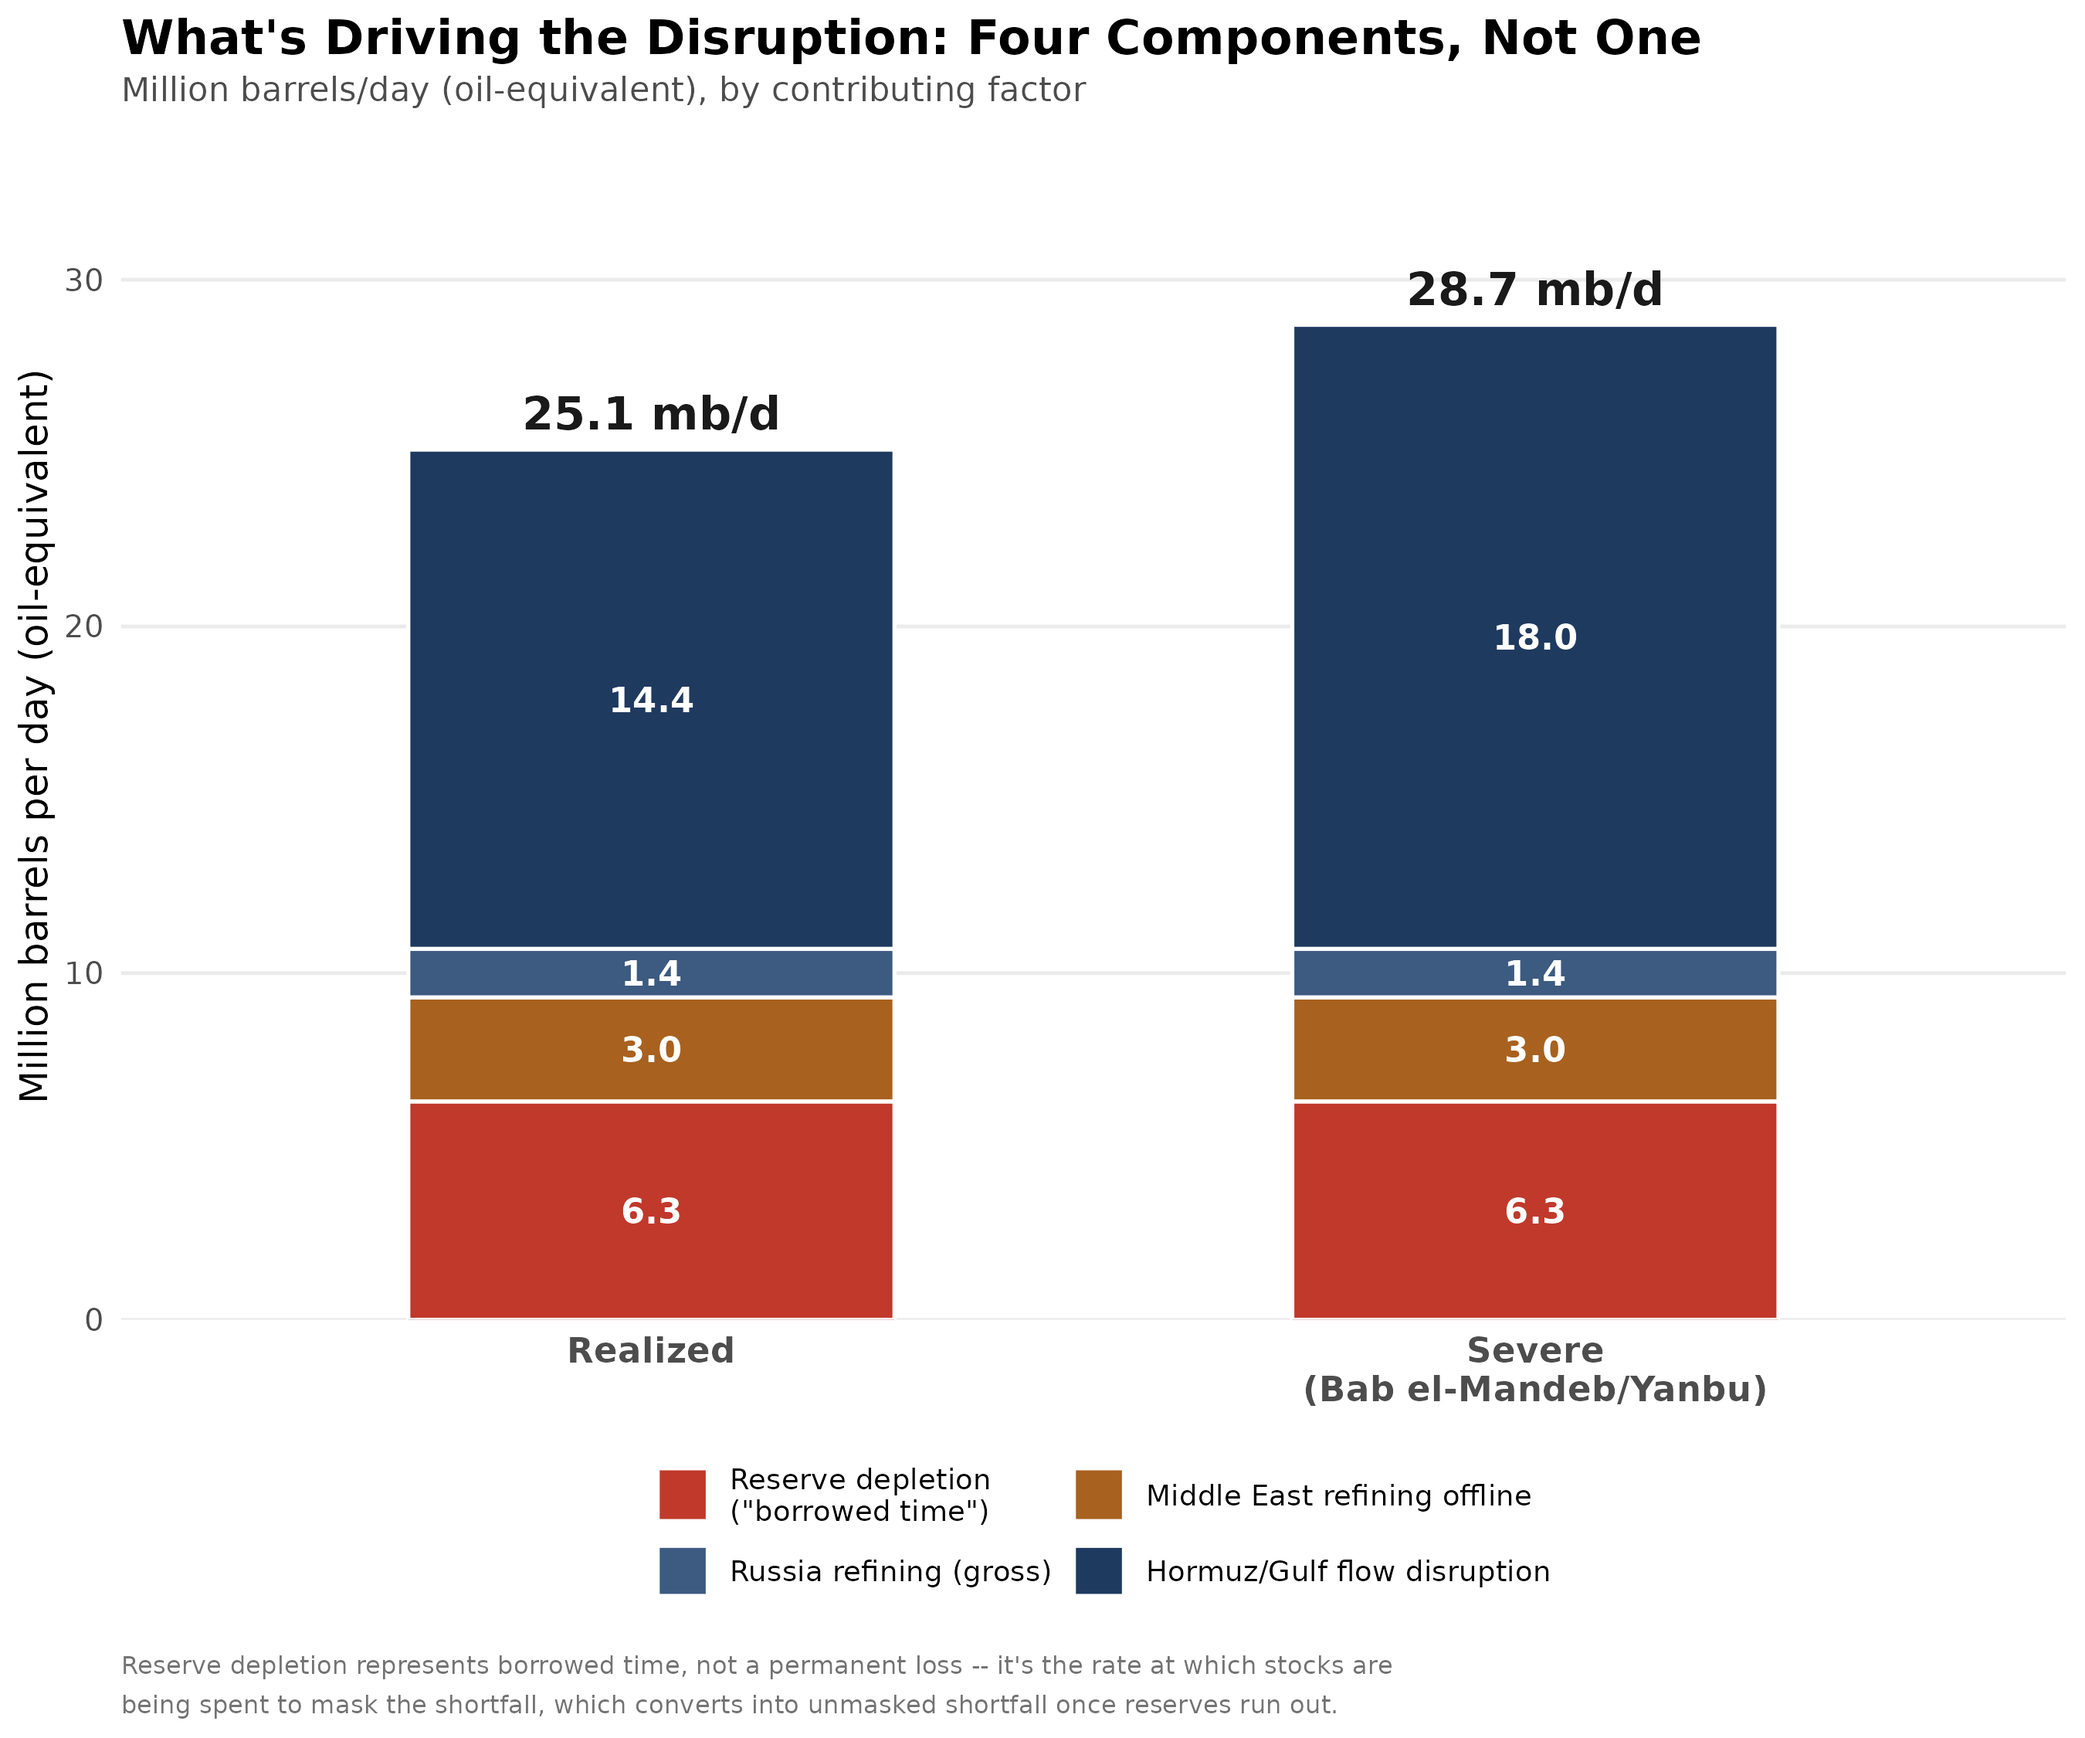
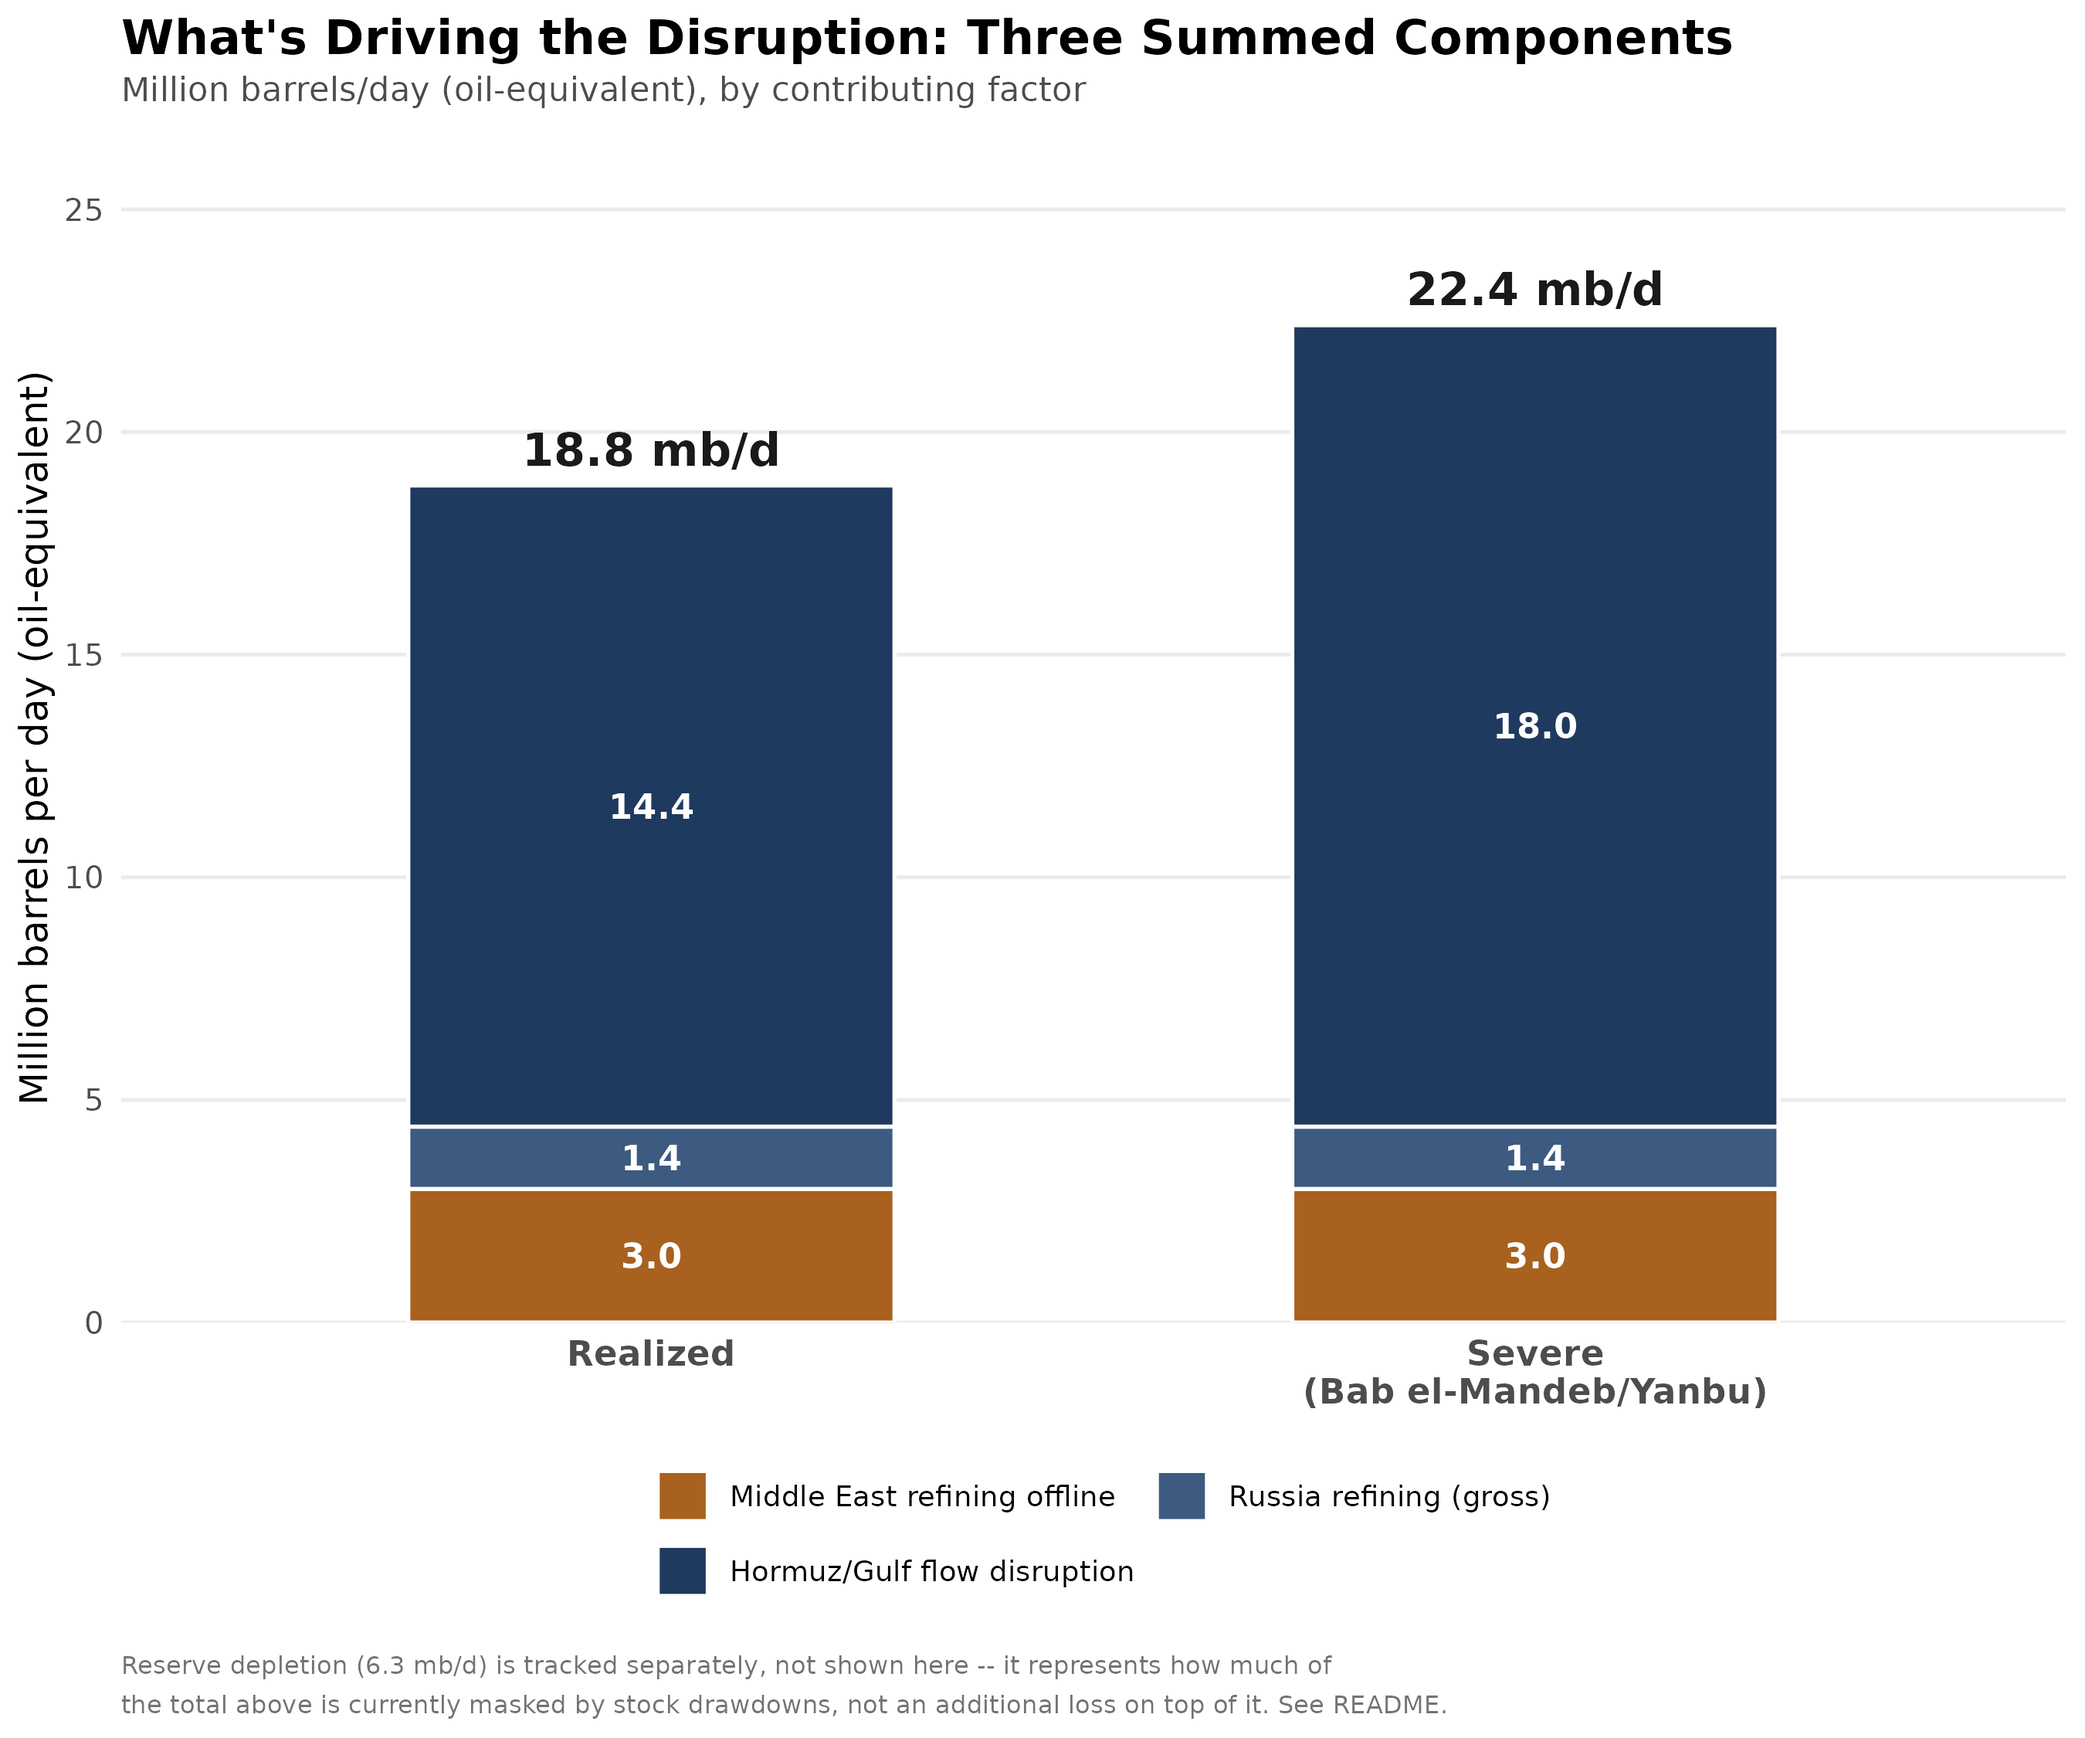
Fix double-counting: reserve depletion tracked as separate diagnostic, not summed into total (supply/demand accounting identity)

diff --git a/README.md b/README.md
@@ -41,24 +41,24 @@ the conversion factor above is derived from.
 ## Finding 2: The 2026 disruption, fully accounted
 
 The disruption is treated as three simultaneous, non-overlapping crises,
-plus a fourth "borrowed time" factor:
+plus a reserve-depletion figure tracked separately as a diagnostic:
 
 | Component | Realized | Severe (Bab el-Mandeb/Yanbu shutdown) | Basis |
 |---|---|---|---|
 | Hormuz/Gulf flow disruption | 14.4 mb/d | 18.0 mb/d | IEA Oil Market Reports; current vessel-traffic collapse (~15/day vs. 88/day baseline) shows severity back at or beyond the original March peak |
 | Russia refining (gross) | 1.4 mb/d | 1.4 mb/d | Energy Aspects/Bloomberg refining-throughput data, independently corroborated by Reuters' ~25% y-o-y fuel-output decline |
 | Middle East refining capacity offline | 3.0 mb/d | 3.0 mb/d | IEA: "~3 mb/d of refining capacity in the region has already shut due to attacks and a lack of viable export outlets" |
-| Reserve depletion rate | 6.3 mb/d | 6.3 mb/d | Cross-validated: EIA's own Short-Term Energy Outlook (6.3 mb/d, 2Q26 actual) and Energy Intelligence/Turner Mason (~6.5 mb/d) |
-| **Total** | **25.1 mb/d** | **28.7 mb/d** | |
-| % of world oil | 24.0% | 27.5% | |
-| % of world primary energy | 8.22% | 9.30% | |
-| **Implied GWP impact** | **6.52%** | **7.38%** | |
+| **Total** | **18.8 mb/d** | **22.4 mb/d** | |
+| % of world oil | 18.0% | 21.5% | |
+| % of world primary energy | 6.33% | 7.41% | |
+| **Implied GWP impact** | **5.02%** | **5.88%** | |
+| *Reserve depletion rate (diagnostic, not summed above)* | *6.3 mb/d* | *6.3 mb/d* | *Cross-validated: EIA's own Short-Term Energy Outlook (6.3 mb/d, 2Q26 actual) and Energy Intelligence/Turner Mason (~6.5 mb/d). This is how much of the Hormuz shortfall above is currently being masked by stock drawdowns — a standard supply/demand accounting identity means it is not an additional loss on top of the total; once reserves are exhausted the shortfall reverts to the Hormuz figure itself, not Hormuz + this rate.* |
 
 For comparison, the mainstream institutional range for this same event is
 **0.6% (IMF/Oxford Economics moderate) to 1.2% (Oxford Economics
 severe/prolonged)**.
 
-### Why four components, not one
+### Why three summed components, plus one tracked separately
 
 - **Hormuz/Bab el-Mandeb** is upstream crude extraction — wells shut in
   because there's nowhere to ship the oil. The severe scenario adds the
@@ -76,15 +76,19 @@ severe/prolonged)**.
   pass. Asian refiners' feedstock-constrained run cuts were deliberately
   **excluded** — that's a downstream symptom of the Hormuz crude shortage
   already counted above.
-- **Reserve depletion** is "borrowed time," not a permanent loss: the rate
+- **Reserve depletion** is "borrowed time," not a permanent loss, and is
+  **tracked separately, not summed into the total above.** It's the rate
   at which the world (excluding Gulf holdings, which were never reaching
   the market anyway) has been spending down commercial and strategic oil
-  stocks to mask the true scale of the shortfall. Once reserves are
-  exhausted, this rate converts into real, unmasked shortfall on top of
-  everything else. China's reserve behavior (it was net-building reserves
-  for most of this period, only drawing modestly from May onward) is
-  excluded from this rate's calculation, on the reasoning that oil sitting
-  in reserves — built or drawn — is oil off the market either way.
+  stocks to mask part of the Hormuz shortfall already counted above. By a
+  standard supply/demand accounting identity, once reserves are exhausted
+  the shortfall reverts to the underlying production loss (the Hormuz
+  figure), not the Hormuz figure plus the reserve rate — adding them would
+  double-count the same barrels. China's reserve behavior (it was
+  net-building reserves for most of this period, only drawing modestly
+  from May onward) is excluded from this rate's calculation, on the
+  reasoning that oil sitting in reserves — built or drawn — is oil off the
+  market either way.
 - **Oil-on-water was deliberately excluded**, despite initially appearing
   to be a similar "borrowed time" factor. It reversed direction mid-crisis
   and the available data has real gaps, failing the reliability bar

diff --git a/STATE.md b/STATE.md
@@ -12,9 +12,9 @@ real terms") is the next deliverable, not yet drafted.
 - R scripts complete and verified (both run cleanly, numbers match
   hand-calculations exactly).
 - Energy-to-GDP conversion factor: **0.79** (R²=0.77, 1971-2021).
-- Full disruption accounting finalized: realized = 25.1 mb/d (6.52%
-  implied GDP impact), severe/Bab el-Mandeb-Yanbu-shutdown = 28.7 mb/d
-  (7.38% implied GDP impact). See README for the full component
+- Full disruption accounting finalized: realized = 18.8 mb/d (5.02%
+  implied GDP impact), severe/Bab el-Mandeb-Yanbu-shutdown = 22.4 mb/d
+  (5.88% implied GDP impact). See README for the full component
   breakdown and sourcing.
 - Five charts total, all built and contrast-checked.
 - README rewritten to document the full methodology, sourcing, and
